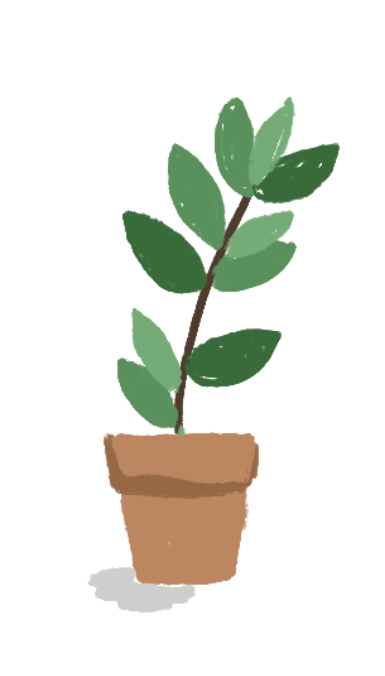
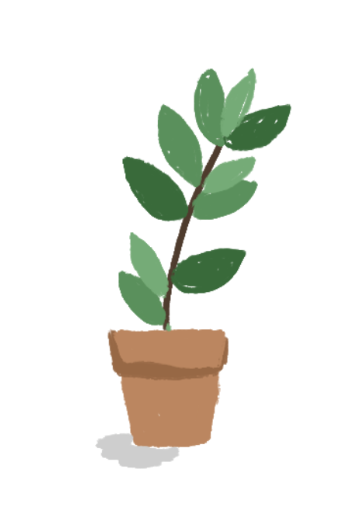
feat: suggestions layout

Changed region(s): [[0.2139, 0.121, 0.8861, 0.9074]]

diff --git a/frontend/src/journal/JournalInput.tsx b/frontend/src/journal/JournalInput.tsx
@@ -31,6 +31,15 @@ export default function JournalInput(props: JournalInputProps) {
   const [popupMessage, setPopupMessage] = useState<string | null>(null);
   const [shouldDisplayPopup, setShouldDisplayPopup] = useState<boolean>(false);
 
+  document.addEventListener("keyup", (event: KeyboardEvent) => {
+    if (event.code === "ArrowLeft") {
+      document.getElementById("prev-button")?.focus();
+    } 
+    if (event.code === "ArrowRight") {
+      document.getElementById("next-button")?.focus();
+    } 
+  });
+
   const displayPopup = (message: string) => {
     setShouldDisplayPopup(true);
     setPopupMessage(message);
@@ -123,6 +132,7 @@ export default function JournalInput(props: JournalInputProps) {
   const previousEntry: JournalFunction = (args: Array<string>) => {
     console.log("we are in the previousEntry function")
     autosave()
+    props.onNext();
     const errorDisplay = document.getElementById('error-display');
     return fetch("http://localhost:3232/getprev")
       .then((response) => response.json())
@@ -242,7 +252,9 @@ export default function JournalInput(props: JournalInputProps) {
       <JournalPrompt prompt={prompt} date={date} />
 
       <div className="error-display" id="error-display">
-        {shouldDisplayPopup && <Popup message={popupMessage} onClose={closePopup} />}
+        {shouldDisplayPopup && (
+          <Popup message={popupMessage} onClose={closePopup} />
+        )}
       </div>
 
       <ControlledInput
@@ -255,11 +267,19 @@ export default function JournalInput(props: JournalInputProps) {
       />
       <div className="button-area">
         <div className="prev-next-menu">
-          <button className="prev-button" onClick={() => previousEntry([])}>
+          <button
+            className="prev-button"
+            id="prev-button"
+            onClick={() => previousEntry([])}
+          >
             <PrevButton />
             prev
           </button>
-          <button className="next-button" onClick={() => nextEntry([])}>
+          <button
+            className="next-button"
+            id="next-button"
+            onClick={() => nextEntry([])}
+          >
             <NextButton />
             next
           </button>

diff --git a/frontend/src/App.tsx b/frontend/src/App.tsx
@@ -62,7 +62,7 @@ function App() {
             onNext={handleSuggestions}
           />
           <div className="righthand-column">
-            {isSubmitted && (
+            {isSubmitted ? (
               <div className="on-submit-click">
                 <SuggestionsDisplay
                   currentEntry={currentEntry}
@@ -72,7 +72,7 @@ function App() {
                   <RandomPlant />
                 </div>
               </div>
-            )}
+            ) : <div className="empty-panel"></div>} 
             <div
               className="disclaimer-message"
               aria-label="mental health disclaimer"
@@ -114,11 +114,8 @@ function App() {
       </div>
 
       {renderPage()}
-
-      {/* <RegisterPage /> */}
     </div>
   );
 }
-
 
 export default App;

diff --git a/frontend/src/RandomPlant.tsx b/frontend/src/RandomPlant.tsx
@@ -7,12 +7,14 @@ import plant4 from "./assets/plant4.png";
 import plant5 from "./assets/plant5.png";
 import plant6 from "./assets/plant6.png";
 import plant7 from "./assets/plant7.png";
+import plant8 from "./assets/plant8.png";
+import plant9 from "./assets/plant9.png";
 
 const RandomPlant = () => {
   const [image, setImage] = useState(plant1);
 
   const getRandomImage = () => {
-    const plantArray = [plant1, plant2, plant3, plant4, plant5, plant6, plant7];
+    const plantArray = [plant1, plant2, plant3, plant4, plant5, plant6, plant7, plant8, plant9];
 
     const randomIndex = Math.floor(Math.random() * plantArray.length);
 

diff --git a/frontend/src/styles/disclaimer.css b/frontend/src/styles/disclaimer.css
@@ -3,11 +3,11 @@
 }
 
 .disclaimers .initial-message {
+  /* position: fixed; */
   align-self: stretch;
-  position: absolute;
   margin-right: 120px;
   margin-left: 120px;
-  bottom: -100px;
+  bottom: 10%;
   color: #939393;
   width: 376px;
   font-family: IBM Plex Serif;
@@ -21,11 +21,11 @@
 }
 
 .disclaimers:hover .hover-text {
+  /* position: fixed; */
   display: block;
   margin-right: 120px;
   margin-left: 120px;
-  position: absolute;
-  bottom: -140px;
+  bottom: 0;
   width: 376px;
   color: #939393;
   font-family: IBM Plex Serif;

diff --git a/frontend/src/styles/plant.css b/frontend/src/styles/plant.css
@@ -1,7 +1,4 @@
 .plant-image {
-  width: 35%;
-  padding-left: 20px;
-  position: absolute;
-  bottom: -8px;
-  left: 450px;
+  width: 55%;
+  padding-left: 10%;
 }

diff --git a/frontend/src/styles/App.css b/frontend/src/styles/App.css
@@ -40,3 +40,8 @@
   align-items: center;
   justify-content: space-between;
 }
+
+.empty-panel {
+  width: 100px;
+  height: 640px;
+}
